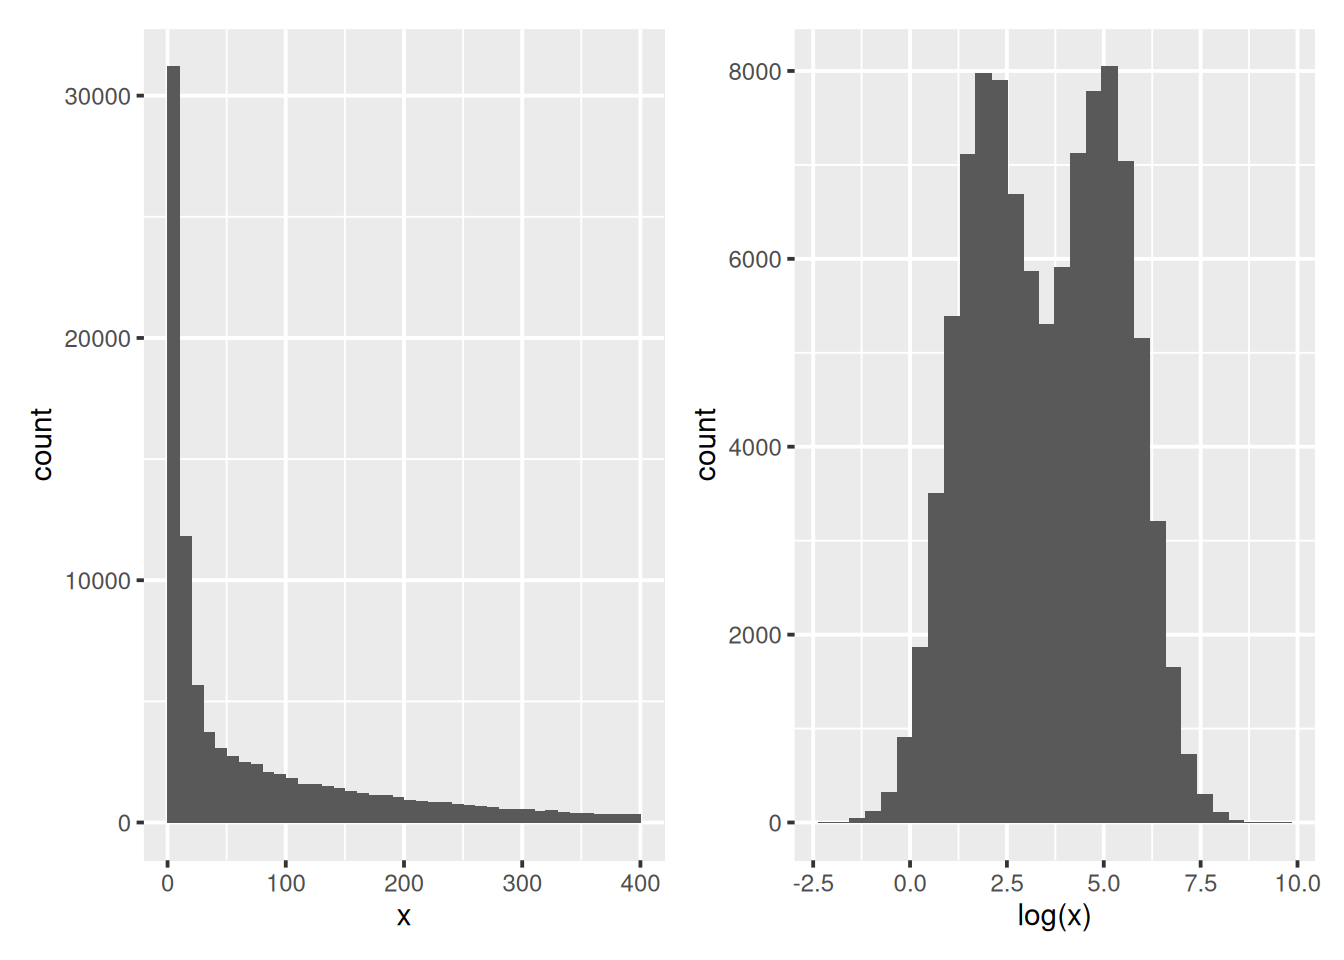
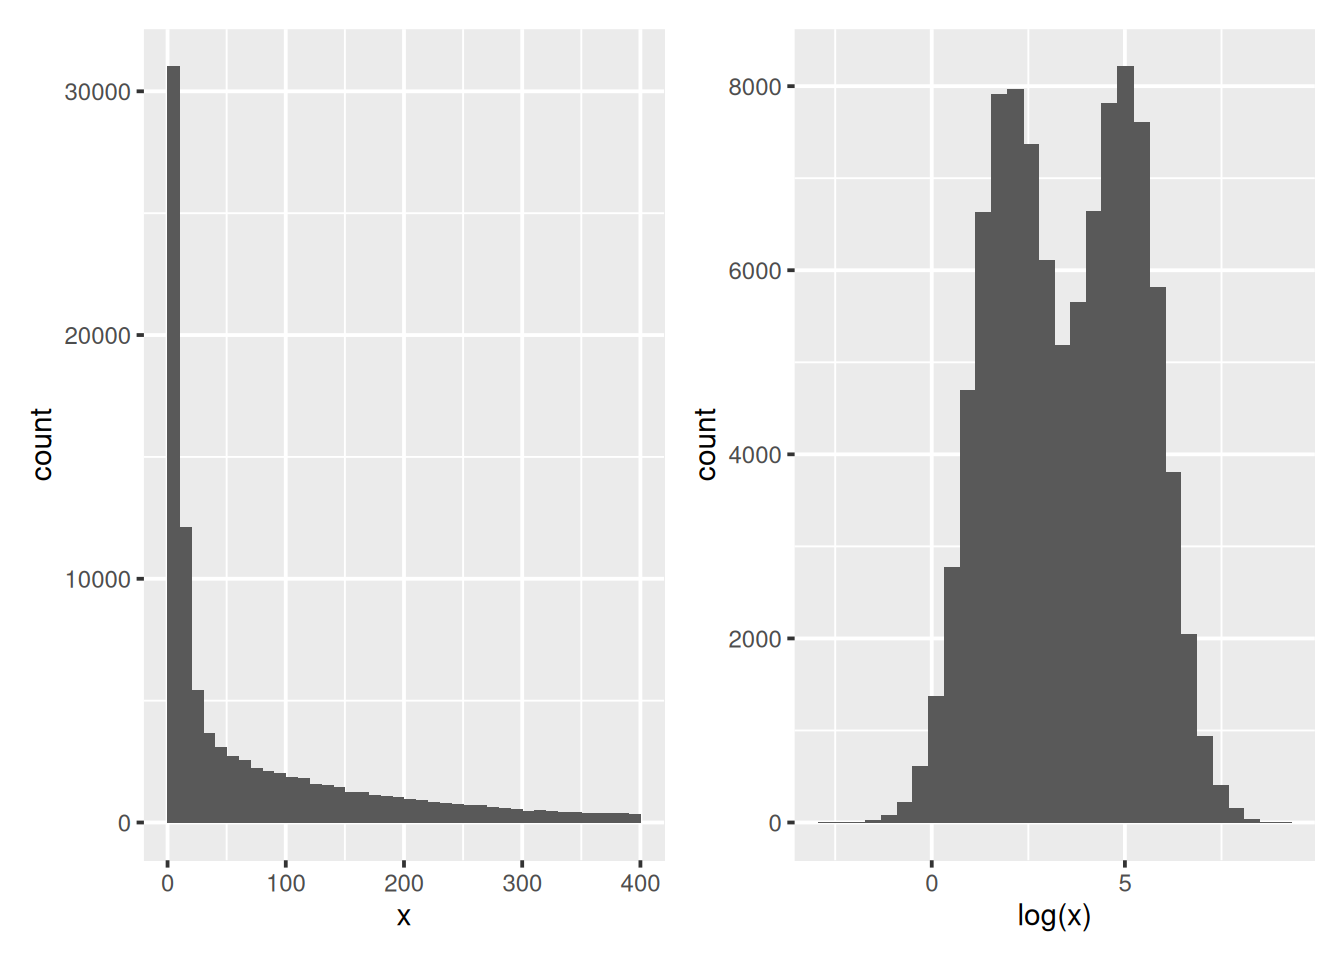
rebuild site

diff --git a/docs/sec-vis.html b/docs/sec-vis.html
@@ -949,7 +949,7 @@ of the data.</p>
 <span id="cb36-9"><a href="sec-vis.html#cb36-9" tabindex="-1"></a>p2 <span class="ot">&lt;-</span>  <span class="fu">ggplot</span>(sim, <span class="fu">aes</span>(<span class="fu">log</span>(x))) <span class="sc">+</span></span>
 <span id="cb36-10"><a href="sec-vis.html#cb36-10" tabindex="-1"></a>    <span class="fu">geom_histogram</span>(<span class="at">bins =</span> <span class="dv">30</span>)</span>
 <span id="cb36-11"><a href="sec-vis.html#cb36-11" tabindex="-1"></a>p1 <span class="sc">+</span> p2</span></code></pre></div>
-<pre><code>## Warning: Removed 8100 rows containing non-finite outside the scale range
+<pre><code>## Warning: Removed 7964 rows containing non-finite outside the scale range
 ## (`stat_bin()`).</code></pre>
 <div class="figure">
 <span style="display:block;" id="fig:sim"></span>
